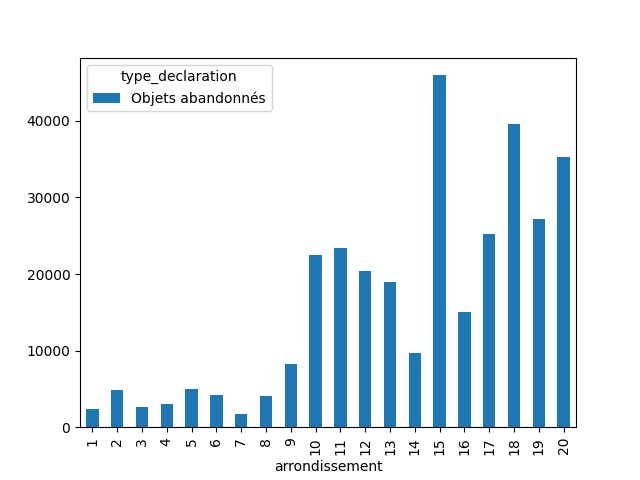
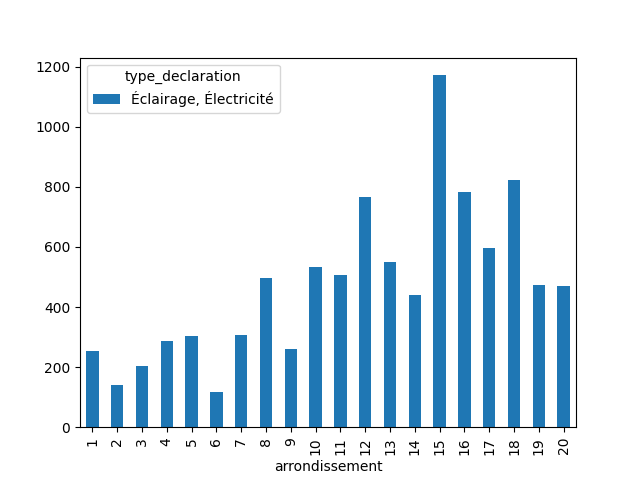
links and table name updated

diff --git a/AnomaliesParis/anomaPro/templates/question3.html b/AnomaliesParis/anomaPro/templates/question3.html
@@ -59,26 +59,26 @@
                 Arrondissement
               </a>
               <ul class="dropdown-menu" aria-labelledby="navbarScrollingDropdown">
-                <li><a class="dropdown-item active" href="/question2/1"></a></li>
-                <li><a class="dropdown-item" href="/question2/2">2 Arrondissement</a></li>
-                <li><a class="dropdown-item" href="/question2/3">3 Arrondissement</a></li>
-                <li><a class="dropdown-item" href="/question2/4">4 Arrondissement</a></li>
-                <li><a class="dropdown-item" href="/question2/5">5 Arrondissement</a></li>
-                <li><a class="dropdown-item" href="/question2/6">6 Arrondissement</a></li>
-                <li><a class="dropdown-item" href="/question2/7">7 Arrondissement</a></li>
-                <li><a class="dropdown-item" href="/question2/8">8 Arrondissement</a></li>
-                <li><a class="dropdown-item" href="/question2/9">9 Arrondissement</a></li>
-                <li><a class="dropdown-item" href="/question2/10">10 Arrondissement</a></li>
-                <li><a class="dropdown-item" href="/question2/11">11 Arrondissement</a></li>
-                <li><a class="dropdown-item" href="/question2/12">12 Arrondissement</a></li>
-                <li><a class="dropdown-item" href="/question2/13">13 Arrondissement</a></li>
-                <li><a class="dropdown-item" href="/question2/14">14 Arrondissement</a></li>
-                <li><a class="dropdown-item" href="/question2/15">15 Arrondissement</a></li>
-                <li><a class="dropdown-item" href="/question2/16">16 Arrondissement</a></li>
-                <li><a class="dropdown-item" href="/question2/17">17 Arrondissement</a></li>
-                <li><a class="dropdown-item" href="/question2/18">18 Arrondissement</a></li>
-                <li><a class="dropdown-item" href="/question2/19">19 Arrondissement</a></li>
-                <li><a class="dropdown-item" href="/question2/20">20 Arrondissement</a></li>
+                <li><a class="dropdown-item" href="/question2/1">1er Arrondissement</a></li>
+                <li><a class="dropdown-item" href="/question2/2">2e Arrondissement</a></li>
+                <li><a class="dropdown-item" href="/question2/3">3e Arrondissement</a></li>
+                <li><a class="dropdown-item" href="/question2/4">4e Arrondissement</a></li>
+                <li><a class="dropdown-item" href="/question2/5">5e Arrondissement</a></li>
+                <li><a class="dropdown-item" href="/question2/6">6e Arrondissement</a></li>
+                <li><a class="dropdown-item" href="/question2/7">7e Arrondissement</a></li>
+                <li><a class="dropdown-item" href="/question2/8">8e Arrondissement</a></li>
+                <li><a class="dropdown-item" href="/question2/9">9e Arrondissement</a></li>
+                <li><a class="dropdown-item" href="/question2/10">10e Arrondissement</a></li>
+                <li><a class="dropdown-item" href="/question2/11">11e Arrondissement</a></li>
+                <li><a class="dropdown-item" href="/question2/12">12e Arrondissement</a></li>
+                <li><a class="dropdown-item" href="/question2/13">13e Arrondissement</a></li>
+                <li><a class="dropdown-item" href="/question2/14">14e Arrondissement</a></li>
+                <li><a class="dropdown-item" href="/question2/15">15e Arrondissement</a></li>
+                <li><a class="dropdown-item" href="/question2/16">16e Arrondissement</a></li>
+                <li><a class="dropdown-item" href="/question2/17">17e Arrondissement</a></li>
+                <li><a class="dropdown-item" href="/question2/18">18e Arrondissement</a></li>
+                <li><a class="dropdown-item" href="/question2/19">19e Arrondissement</a></li>
+                <li><a class="dropdown-item" href="/question2/20">20e Arrondissement</a></li>
               </ul>
             </li>
           </ul>

diff --git a/AnomaliesParis/anomaPro/templates/question1.html b/AnomaliesParis/anomaPro/templates/question1.html
@@ -58,7 +58,7 @@
             <li><a class="dropdown-item" href="/question3/?anomalie=Autos,%20motos,%20vélos..."> Autos, motos, vélos... </a></li>
             <li><a class="dropdown-item" href="/question3/?anomalie=Mobiliers%20urbains"> Mobiliers urbains </a></li>
             <li><a class="dropdown-item" href="/question3/?anomalie=Propreté"> Propreté </a></li>
-            <li><a class="dropdown-item" href="/?anomalie=Éclairage%20/%20Électricité"> Éclairage / Électricité </a></li>
+            <li><a class="dropdown-item" href="/question3/?anomalie=Éclairage,%20Électricité"> Éclairage / Électricité </a></li>
             <li><a class="dropdown-item" href="/?anomalie=Voirie%20et%20espace%20public"> Voirie et espace public </a></li>
             <li><a class="dropdown-item" href="/question3/?anomalie=Activités%20commerciales%20et%20professionnelles"> Activités commerciales et professionnelles </a></li>
             <li><a class="dropdown-item" href="/question3/?anomalie=Eau"> Eau </a></li>
@@ -85,6 +85,14 @@
 
 <!-- body content -->
 {%block Content%}
+<div class="container">
+  <div class="containerHead">
+    <h4>Recensement</h4>
+    <p>Le Projet dans ma rue a été mis à disposition des parisiens à partir de Mars 2021.</p></br>
+    <p>L'arrondissement du 11ème est l'arrondissement avec le plus d'anoamalies avec un nombre de {{ max }} anomalies détectés.</p></br>
+    <p>Le 7ème arrondissement est celui avec le moins d'anomalie avec {{ min }} anomalies détectés .</p>
+    </p>
+  </div>
 <div class="modelImage h-100" style="z-index: 100;">
   <div class="container d-flex align-items-center justify-content-center">
       <div class="fullImage text-white p-5 w-50 h-50">

diff --git a/AnomaliesParis/anomaPro/templates/Q2_ParMois.html b/AnomaliesParis/anomaPro/templates/Q2_ParMois.html
@@ -45,7 +45,7 @@
                 Arrondissement
               </a>
               <ul class="dropdown-menu" aria-labelledby="navbarScrollingDropdown">
-                <li><a class="dropdown-item active" href="/question2/1"></a>1er Arrondissement</li>
+                <li><a class="dropdown-item" href="/question2/1">1er Arrondissement</a></li>
                 <li><a class="dropdown-item" href="/question2/2">2e Arrondissement</a></li>
                 <li><a class="dropdown-item" href="/question2/3">3e Arrondissement</a></li>
                 <li><a class="dropdown-item" href="/question2/4">4e Arrondissement</a></li>
@@ -79,7 +79,7 @@
 <div class="container">
   <div class="containerHead">
     <h4>DATA</h4>
-    <p>page .{{ context.pk }}.</p>
+    <p>Arrondissement : {{ context.pk }}.</p>
   </div>
   <div class="contentOne">
     <div class="row">

diff --git a/AnomaliesParis/anomaPro/templates/question2.html b/AnomaliesParis/anomaPro/templates/question2.html
@@ -66,7 +66,7 @@
                 Arrondissement 
               </a>
               <ul class="dropdown-menu" aria-labelledby="navbarScrollingDropdown">
-                <li><a class="dropdown-item active" href="/question2/1"></a>1er Arrondissement</li>
+                <li><a class="dropdown-item" href="/question2/1">1er Arrondissement</a></li>
                 <li><a class="dropdown-item" href="/question2/2">2e Arrondissement</a></li>
                 <li><a class="dropdown-item" href="/question2/3">3e Arrondissement</a></li>
                 <li><a class="dropdown-item" href="/question2/4">4e Arrondissement</a></li>

diff --git a/AnomaliesParis/anomaPro/anomaPro/views.py b/AnomaliesParis/anomaPro/anomaPro/views.py
@@ -34,11 +34,12 @@ df2 = df.drop(['ID DECLARATION','SOUS TYPE DECLARATION','ADRESSE','CODE POSTAL',
 df2.columns = df2.columns.str.lower()
 # remplacer espaces par _ :
 df2.columns = df2.columns.str.replace(" ","_") # remplacer espaces dans les noms de colonnes par _
+df2['type_declaration'] = df2['type_declaration'].replace(['Éclairage / Électricité'],'Éclairage, Électricité')
 
 #Liste des Types d'Anomalies pour crée les menu déroulants
 list_anomalie= ['Objets abandonnés', 'Graffitis, tags, affiches et autocollants',
        'Autos, motos, vélos...', 'Mobiliers urbains', 'Propreté',
-       'Éclairage / Électricité', 'Voirie et espace public',
+       'Éclairage, Électricité', 'Voirie et espace public',
        'Activités commerciales et professionnelles', 'Eau',
        'Arbres, végétaux et animaux']
 
@@ -98,10 +99,14 @@ def question1(request):
   ########################################################################
   #DATA - commande pour générer la tableau de données (global)
   df3 = pandas.crosstab(df2['arrondissement'],df2['annee_declaration'])
+  print("df3", df3)
+  max = df3.to_numpy().max()
+  min = df3.to_numpy().min()
   json_records = df3.to_json(orient ='index')
   data = []
   data = json.loads(json_records)
-  context = {'img': [Q1_Niv0_Bar2, Q1_Niv0_Pie2], 'data': data} 
+  print("max et min", max, min)
+  context = {'img': [Q1_Niv0_Bar2, Q1_Niv0_Pie2], 'data': data, 'max' : max, 'min' : min} 
 
   return render(request, 'question1.html', context)
 
@@ -168,6 +173,8 @@ def question3(request):
     #on sélectionne dans le QueryDict 'Objets abandonnés'
     #exemple : <QueryDict: {'anomalie': ['Objets abandonnés']}>
     op = request_get["anomalie"].encode('utf8')
+
+    print("op", str(op.decode()))
 
     
     ########################################################################

diff --git a/AnomaliesParis/anomaPro/anomaPro/settings.py b/AnomaliesParis/anomaPro/anomaPro/settings.py
@@ -16,16 +16,16 @@ import os
 from pathlib import Path 
 
 # Build paths inside the project like this: BASE_DIR / 'subdir'.
-BASE_DIR = Path(__file__).resolve().parent.parent
+# BASE_DIR = Path(__file__).resolve().parent.parent
 
-# BASE_DIR = os.path.dirname(os.path.dirname(os.path.abspath(__file__)))
-# print("BASE_DIR = " + BASE_DIR)
-# STATIC_URL = '/static/'
-# STATICFILES_DIRS = [os.path.join(BASE_DIR,'/static/')]
-# STATICFILES_DIRS = [BASE_DIR + '/static/']
-# print("BASE_DIR = " + BASE_DIR)
-# print("STATICFILES_DIRS :")
-# print(STATICFILES_DIRS)
+BASE_DIR = os.path.dirname(os.path.dirname(os.path.abspath(__file__)))
+print("BASE_DIR = " + BASE_DIR)
+STATIC_URL = '/static/'
+STATICFILES_DIRS = [os.path.join(BASE_DIR,'/static/')]
+STATICFILES_DIRS = [BASE_DIR + '/static/']
+print("BASE_DIR = " + BASE_DIR)
+print("STATICFILES_DIRS :")
+print(STATICFILES_DIRS)
 
 
 ##########################################################################
@@ -133,8 +133,8 @@ USE_TZ = True
 # https://docs.djangoproject.com/en/4.0/howto/static-files/
 
 
-STATIC_URL = 'static/'
-STATICFILES_DIRS = [os.path.join(BASE_DIR, 'static')]
+# STATIC_URL = 'static/'
+# STATICFILES_DIRS = [os.path.join(BASE_DIR, 'static')]
 
 # Default primary key field type
 # https://docs.djangoproject.com/en/4.0/ref/settings/#default-auto-field
